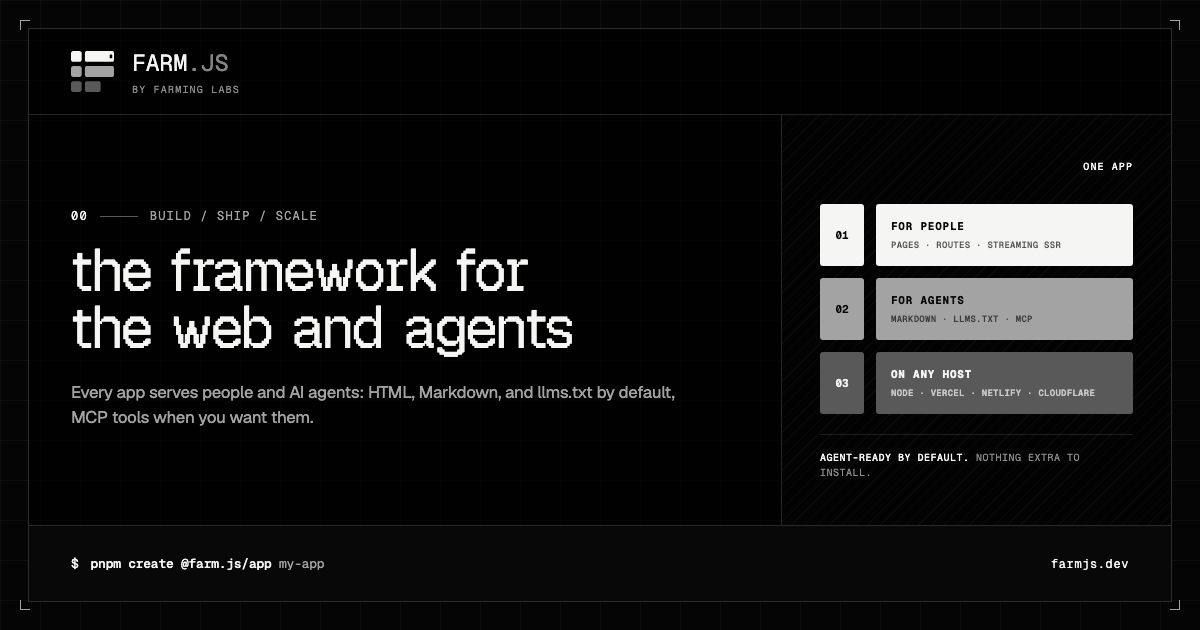
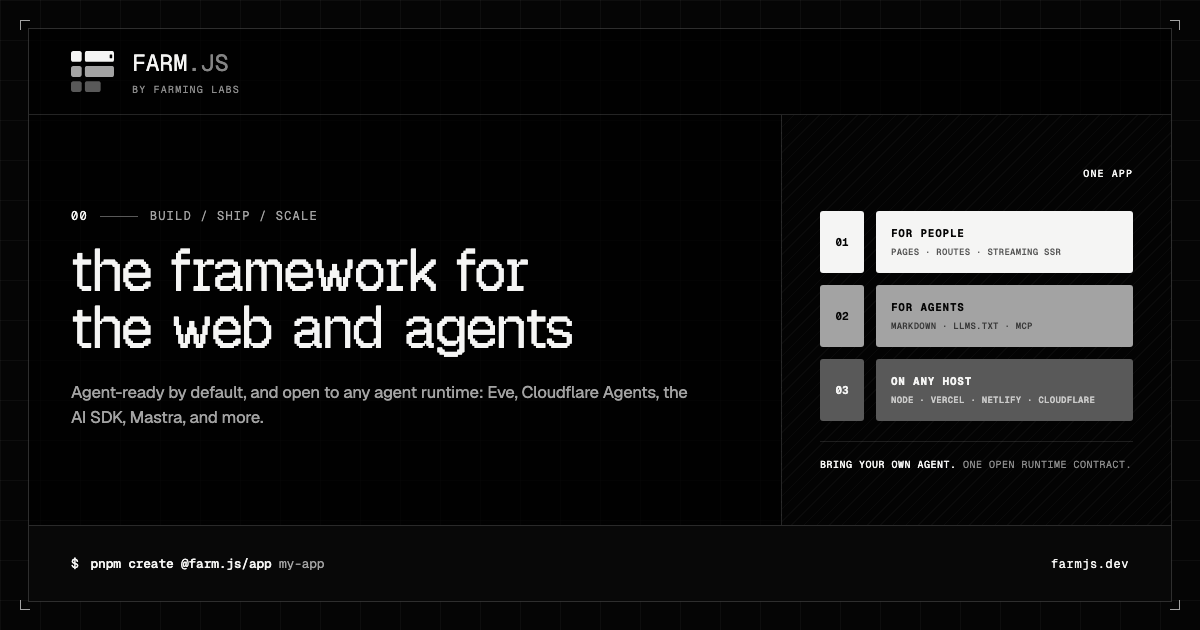
docs: say Farm runs any agent runtime you bring

diff --git a/docs/src/app/layout.tsx b/docs/src/app/layout.tsx
@@ -11,7 +11,7 @@ export const metadata = {
   metadataBase: new URL(SITE_URL),
   title: "Farm.js - The framework for the web and agents",
   description:
-    "Farm.js is the full-stack framework for the web and agents: every app serves Markdown and llms.txt to AI agents by default. Built on Vite and Nitro.",
+    "Farm.js is the full-stack framework for the web and agents: apps are agent-ready by default and run any agent runtime you bring. Built on Vite and Nitro.",
   icons: {
     icon: [{ url: "/favicon.svg", type: "image/svg+xml", sizes: "any" }],
   },

diff --git a/docs/src/app/page.tsx b/docs/src/app/page.tsx
@@ -79,7 +79,7 @@ import "../components/blog/figures.css";
 
 const homepageTitle = "Farm.js - The framework for the web and agents";
 const homepageDescription =
-  "Farm.js is the full-stack framework for the web and agents: every app serves Markdown and llms.txt to AI agents by default. Built on Vite and Nitro.";
+  "Farm.js is the full-stack framework for the web and agents: apps are agent-ready by default and run any agent runtime you bring. Built on Vite and Nitro.";
 
 export const metadata = {
   metadataBase: "https://farmjs.dev",

diff --git a/docs/farm.config.ts b/docs/farm.config.ts
@@ -3,7 +3,7 @@ import { devtools } from "@farm.js/devtools";
 import { farmDocsRuntimeAdapter } from "@farming-labs/farmjs/runtime";
 
 const siteDescription =
-  "Farm.js is the full-stack framework for the web and agents: every app serves Markdown and llms.txt to AI agents by default. Built on Vite and Nitro.";
+  "Farm.js is the full-stack framework for the web and agents: apps are agent-ready by default and run any agent runtime you bring. Built on Vite and Nitro.";
 
 export default defineConfig({
   plugins: [devtools()],

diff --git a/README.md b/README.md
@@ -9,7 +9,7 @@
 </p>
 
 <p align="center">
-  Every Farm.js app serves its pages to people and to AI agents: server-rendered HTML, a Markdown copy of each page, and <code>llms.txt</code>, on by default. Turn on MCP and your server functions become tools agents can call. Built on Vite and Nitro, with typed routes, Server Actions, and streaming SSR. React is the default renderer, and beta Preact, Solid, Vue, and Svelte adapters use the same routing and server contracts. See <a href="https://farmjs.dev/docs/stability">Stability and Support</a> for what 0.1 covers.
+  Every Farm.js app serves its pages to people and to AI agents: server-rendered HTML, a Markdown copy of each page, and <code>llms.txt</code>, on by default. Turn on MCP and your server functions become tools agents can call. Bring any agent runtime: <a href="https://farmjs.dev/docs/integrations/eve">Eve</a> and <a href="https://farmjs.dev/docs/integrations/cf-agent">Cloudflare Agents</a> plug in through Farm's open <a href="https://farmjs.dev/docs/integrations#agent-runtimes">agent runtime contract</a>, and the <a href="https://farmjs.dev/docs/integrations/agent-frameworks">AI SDK, Mastra, LangGraph, and the OpenAI Agents SDK</a> run in a plain API route. Built on Vite and Nitro, with typed routes, Server Actions, and streaming SSR. React is the default renderer, and beta Preact, Solid, Vue, and Svelte adapters use the same routing and server contracts. See <a href="https://farmjs.dev/docs/stability">Stability and Support</a> for what 0.1 covers.
 </p>
 
 <p align="center">
